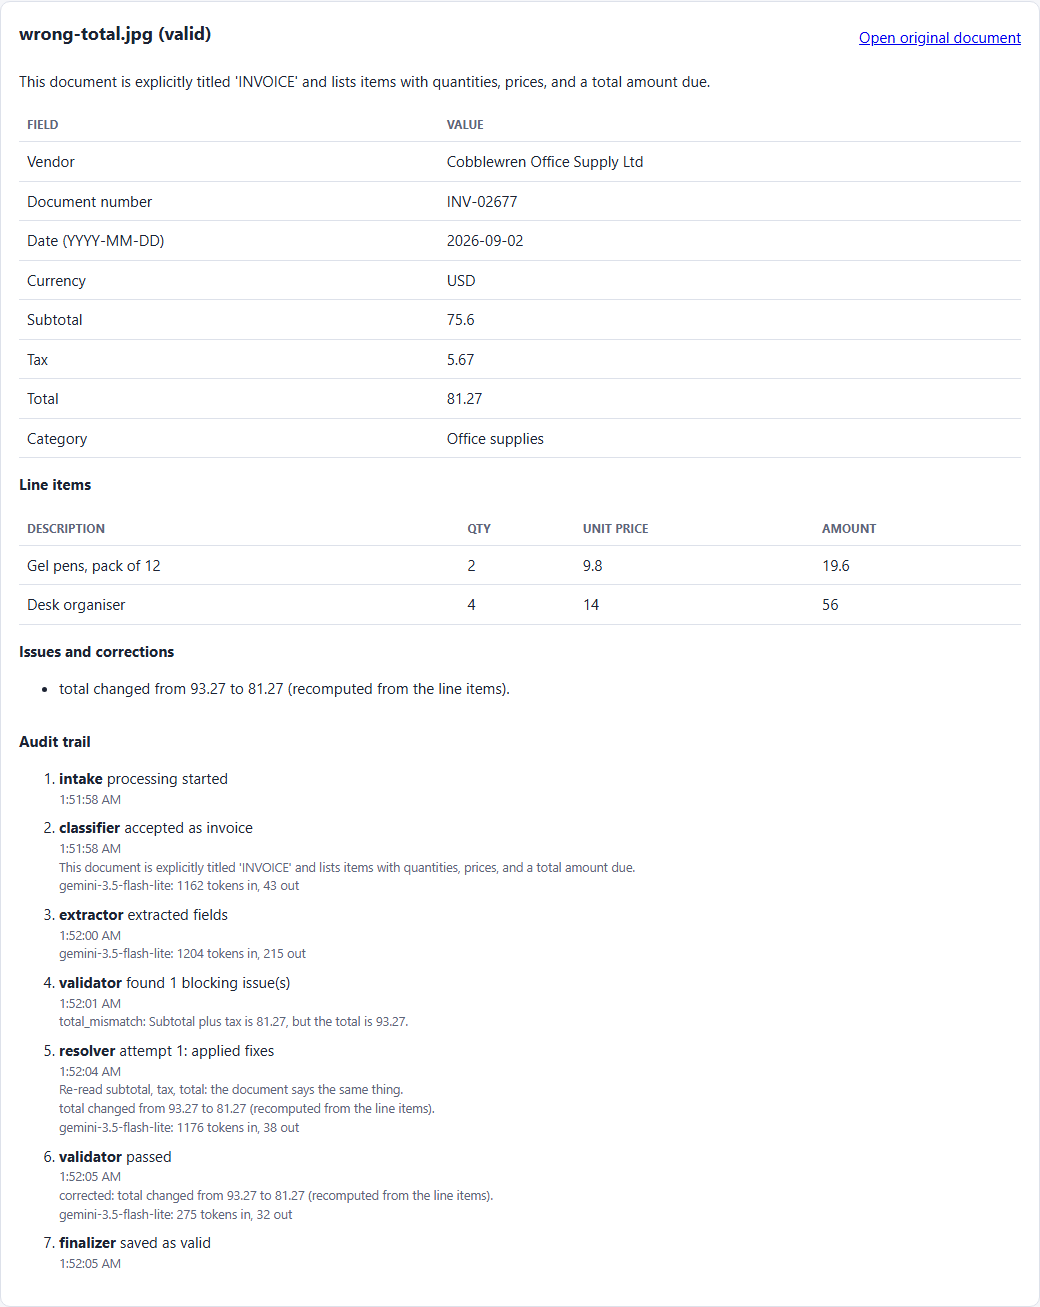
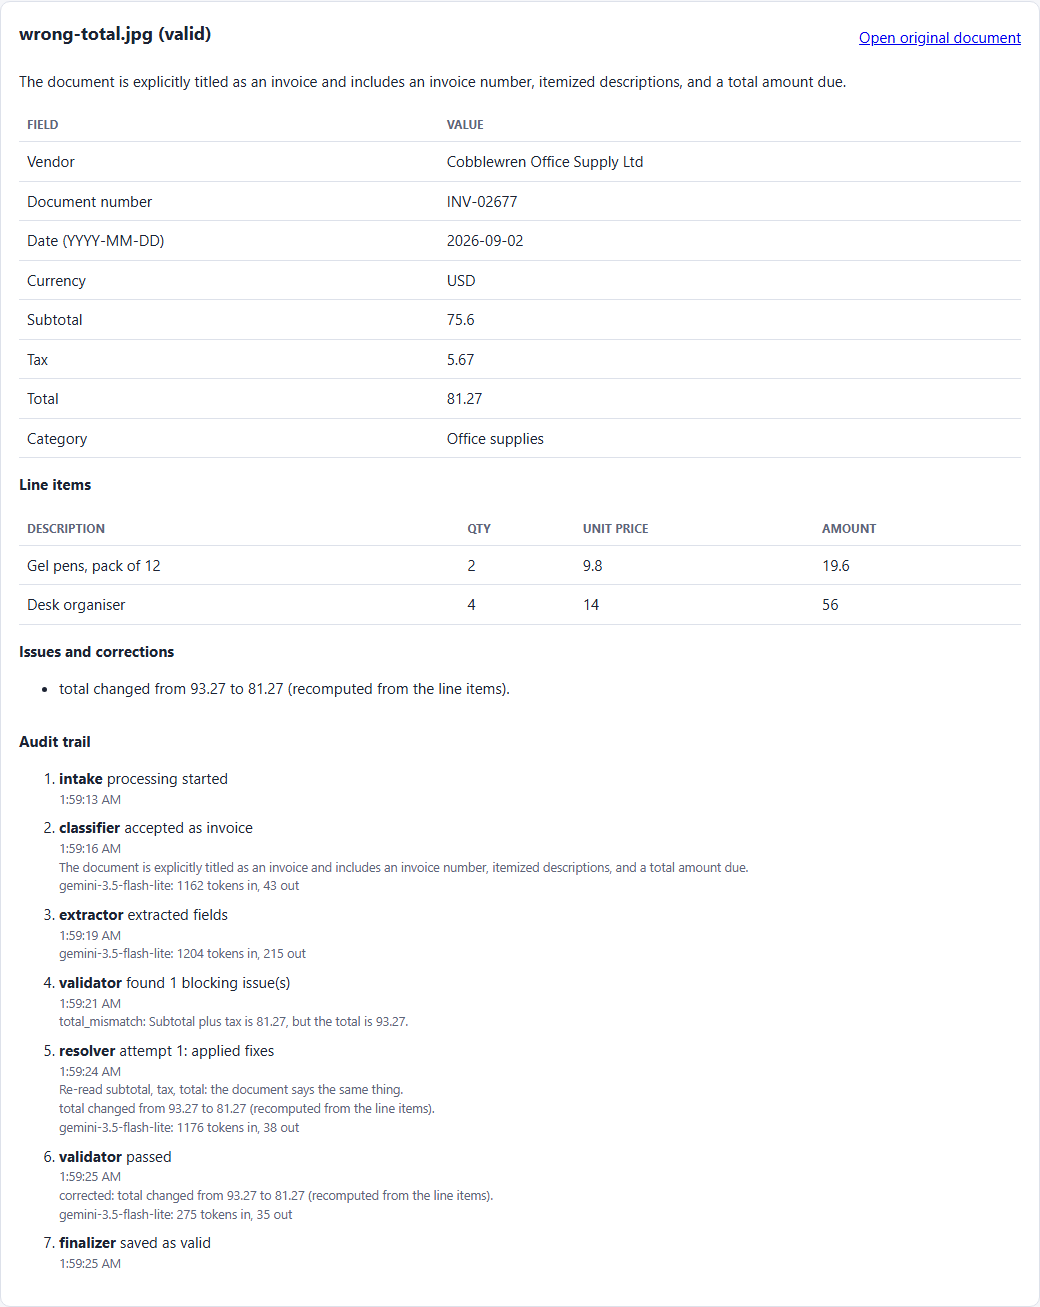
M8: README, burst test record, refreshed screenshots

Changed region(s): [[0.0615, 0.6427, 0.7077, 0.6733], [0.0308, 0.0612, 0.6769, 0.0918], [0.7385, 0.0612, 0.8, 0.0918]]

diff --git a/README.md b/README.md
@@ -1,0 +1,154 @@
+# doc-agents-aws
+
+**Four AI agents on AWS that read invoices and receipts, check them, fix what can be fixed, and hand the rest to a person with a plain-English explanation. Serverless, deployed with Terraform, measured agent by agent.**
+
+**Live demo: <https://dqzyienf3t29b.cloudfront.net>**: click a fictional sample and watch it move through the agents. Demo only: don't upload real invoices.
+
+Project 2 of my AI portfolio. Project 1: [rag-on-aws](https://github.com/usmanibrahim17/rag-on-aws), whose provider interface, queue pacing, deploy guard and OIDC setup are reused here.
+
+![Results table, review queue and sample buttons](docs/img/demo-results.png)
+
+| Human review | Audit trail |
+|---|---|
+| ![A document waiting for review, with the explanation and editable fields](docs/img/demo-review.png) | ![Every agent decision for one document](docs/img/demo-audit.png) |
+
+## What it does
+
+| Agent | Job |
+|---|---|
+| **Classifier** | Invoice, receipt, credit note, or not a financial document. Junk is rejected with a reason |
+| **Extractor** | Reads PDF or photo into a fixed JSON schema: vendor, number, date, currency, line items, subtotal, tax, total, expense category |
+| **Validator** | Rules first (arithmetic, tax rate, required fields, duplicates, known vendor), then an AI anomaly check on documents that pass |
+| **Resolver** | Re-reads the problem fields, fuzzy-matches misspelled vendors, recomputes totals. Fixed documents go back to the Validator (at most 2 loops) |
+
+Whatever remains goes to a person: the workflow pauses, shows what is wrong and what was already tried, and resumes on approve or reject. Every decision is written to an audit log; saved documents export as CSV.
+
+## Architecture
+
+As deployed in `us-east-1`:
+
+```mermaid
+flowchart TB
+  B[Browser] -- HTTPS --> CF["CloudFront + OAC<br/>private S3 site"]
+  B -- "X-Session-Id" --> G["API Gateway HTTP API<br/>throttled, strict CORS"]
+  G --> API[api Lambda]
+  B -- "presigned POST" --> U[("S3 uploads<br/>private, deleted after 7 days")]
+  U -- "object created" --> Q["SQS intake<br/>+ dead-letter queue"]
+  Q --> ST["starter Lambda<br/>3 documents at a time"]
+  ST -- StartExecution --> C
+
+  subgraph SFN ["Step Functions (Standard)"]
+    C[Classifier] -->|financial| E[Extractor]
+    C -->|junk| X([rejected])
+    E --> V[Validator]
+    V -->|valid| F[finalizer]
+    V -->|issues| R[Resolver]
+    R -->|"changed, max 2 loops"| V
+    R -->|"nothing to change"| H["reviewer<br/>waitForTaskToken"]
+    V -->|"still invalid after 2"| H
+    H -->|approve / reject| F
+  end
+
+  API -- "SendTaskSuccess" --> H
+  API <--> D[("DynamoDB<br/>documents, audit,<br/>reviews, vendors")]
+  SFN <--> D
+  SFN -- "document + JSON schema" --> P{{"AI provider<br/>Gemini (Bedrock by one setting)"}}
+  K["SSM SecureString<br/>Gemini key"] -.-> SFN
+  GH["GitHub Actions<br/>OIDC, main only"] -- "plan, guard, apply" --> TF["this whole stack<br/>(Terraform, remote state in S3)"]
+```
+
+Each box in the workflow is its own Lambda with its own IAM role. Agent Lambdas raise `RateLimited` on HTTP 429 and the state machine retries with exponential backoff and jitter.
+
+## Key decisions
+
+| Decision | Why |
+|---|---|
+| **Rules before AI** in the Validator | Arithmetic, tax and duplicates are exact, free and explainable; the model only judges what rules cannot, and only on documents that passed them |
+| **Step Functions Standard** with `waitForTaskToken` | A document can wait days for a person with nothing running |
+| Resolver **only fixes what evidence supports** | A total is recomputed only when every line is internally consistent; the old value stays in the audit log |
+| Loop ends when **nothing changed** (or after 2 loops) | No repeated model calls that cannot help |
+| **SQS + a starter Lambda** in front of the workflow | A burst of uploads waits in line (`ChangeMessageVisibility` backoff) instead of hitting the free-tier limit together |
+| **Pluggable provider** (`gemini` or `bedrock`) | Bedrock on-demand quota is 0 on this account. The Bedrock path is tested with stubs only |
+| Plain Python + `boto3`; PDFs and images go to the model as they are | No frameworks, OCR service or PDF library; one small zip |
+| **Anonymous session per browser** | A public demo with no sign-up where visitors cannot see each other's documents |
+
+## Evaluation
+
+33 synthetic documents (30 financial, 11 images, 3 non-financial) for fictional companies, with deliberate faults: wrong totals, duplicates, missing fields, misspelled vendors, odd tax rates and an unknown vendor. Each is rendered from its ground-truth record. Full report: [`evals/RESULTS.md`](evals/RESULTS.md).
+
+| Agent | Metric | Result |
+|---|---|---|
+| Classifier | Document type accuracy | 100% (33 documents) |
+| Extractor | Field accuracy / line items / category | 100% / 100% / 100% (30 documents) |
+| Validator | Precision / recall | 100% / 100% (14 bad, 16 good) |
+| Resolver | Saved without a human | 42.9% (6 of 14 flagged) |
+| Resolver | Fixable fixed correctly / unfixable sent to a person | 6 of 6 / 8 of 8 |
+| Pipeline | Latency, one document (median of 5, max) | 5.2 s (18.8 s) |
+| Pipeline | Latency when 31 arrive at once (p50 / p95) | 73 s / 228 s, mostly queueing |
+
+**How to read this.** The 100% scores mean the pipeline handles this set, not that it is error-free. The documents are machine-rendered and clearly printed (scans add only slight rotation, noise and blur), the set is small, and the same author wrote the data, the rules and the pipeline. Expect lower scores on creased photos, handwriting and unusual layouts. The auto-fix rate is low by design: 8 of the 14 faults (duplicates, missing data, odd tax, unknown vendor) *should* reach a person.
+
+A [burst test](evals/LOAD_TEST.md) of 20 simultaneous uploads finished all 20 in 366 s with nothing lost or dead-lettered.
+
+## Cost per 1,000 documents
+
+Measured in the eval run: 1,971 input and 297 output tokens, 8.8 state transitions and 3.63 Lambda GB-seconds per document.
+
+| Option | Models | AWS | **Total per 1,000 documents** |
+|---|---|---|---|
+| Gemini free tier (demo and public data only) | $0.00 | $0.32 | **$0.32** |
+| Gemini paid (`gemini-3.5-flash-lite`) | $1.33 | $0.32 | **$1.65** |
+| Amazon Bedrock Nova Lite (estimate, not run) | $0.19 | $0.32 | **$0.51** |
+
+AWS share: Step Functions $0.22, Lambda $0.06, DynamoDB $0.02, S3 + SQS $0.01, API Gateway $0.01. List prices without free-tier allowances; DynamoDB, S3, SQS and API request counts per document are assumptions; logs, CloudFront, transfer and storage are excluded. Prices and sources are in [`evals/cost.py`](evals/cost.py). Nothing runs all the time: when idle, the charges are storage and the queue polling.
+
+## Security
+
+- **Least-privilege IAM:** one role per Lambda, scoped to specific tables, prefixes, queue, state machine and the one SSM parameter. One exception: Step Functions task callbacks have no resource-level permissions, so the API role has `states:SendTaskSuccess` on `*`; the task token is what authorizes a resume.
+- **Permissions boundary** on every stack role. The CD role may only create or change `docagent-*` roles that carry it, and cannot edit the boundary or itself. It can manage any CloudFront distribution and HTTP API in the account, because their IDs are random.
+- **Visitor isolation:** every upload, list, detail, audit, review and export is scoped to an anonymous session id; another session's document returns 404. Task tokens stay server-side. The session id is a bearer secret, not a login.
+- **Private storage:** uploads and site buckets block public access and are encrypted; the site is served only through CloudFront (OAC) with CSP, HSTS and frame headers. CORS allows the site's origin only.
+- **Retention:** uploads are deleted after 7 days; documents, reviews and audit records expire through DynamoDB TTL.
+- **Abuse limits:** API throttling (5 requests/s, burst 20), 5 MB PDF/PNG/JPEG only, daily upload caps. A determined visitor could still use up the day's shared cap.
+- **Untrusted content:** prompts treat document text as data; output must match a schema; the page renders it as text only; CSV export neutralizes spreadsheet formulas.
+- **No secrets** in code, Terraform variables, state or logs. The Gemini key is read from SSM at runtime. CI uses GitHub OIDC with this repository's immutable subject claim: no stored AWS keys.
+- **Deploy guard:** CD refuses any plan that deletes or replaces resources unless the commit message contains `[allow-destroy]`.
+- **Data privacy:** Google may use free-tier inputs to improve its products. For client documents use a paid Gemini key or Bedrock.
+
+## Problems solved
+
+1. **Paused reviews would have blocked the queue.** An execution waiting for a person still counts as running, so the starter subtracts pending reviews before deciding whether there is a free slot.
+2. **Auto-fixing money is risky.** The Resolver first re-reads the document, and recomputes only when the line items prove which figure is wrong.
+3. **Duplicates in a public demo.** The duplicate key includes the session, so two visitors trying the same sample do not flag each other.
+4. **Rate limits without paying to wait.** Instead of sleeping in a Lambda, agents fail fast on 429 and Step Functions backs off.
+5. **A circular dependency** between the site's security policy (needs the API address) and the API's CORS (needs the site address), broken by allowing the API Gateway domain pattern in the policy.
+6. **The first automated deploy failed** because Windows PowerShell stripped the quotes from a list-valued CI secret; setting it through standard input fixed it.
+
+## Deploy your own
+
+Needs an AWS account (`us-east-1`), Terraform 1.10+, Python 3.12 and a [Gemini API key](https://aistudio.google.com/apikey).
+
+1. Store the key (never in code or tfvars): `aws ssm put-parameter --name /rag-demo/gemini-api-key --type SecureString --value <key>`
+2. The bootstrap expects a private, versioned S3 **state bucket** and the account's **GitHub OIDC provider**. [rag-on-aws](https://github.com/usmanibrahim17/rag-on-aws)'s bootstrap creates both; otherwise create them once yourself.
+3. `cd infra/bootstrap && terraform init && terraform apply -var state_bucket_name=<bucket> -var github_sub_prefix=<prefix>` (read the prefix with `gh api repos/<owner>/<repo>/actions/oidc/customization/sub --jq .sub_claim_prefix`).
+4. In `infra/envs/demo`, copy `terraform.tfvars.example` and `backend.hcl.example` without the `.example` suffix and fill them in.
+5. From the repository root: `python scripts/build_zip.py`, then `cd infra/envs/demo && terraform init "-backend-config=backend.hcl" && terraform apply`
+6. Open `terraform output web_url`.
+7. Continuous deployment: set repository variables `AWS_DEPLOY_ROLE_ARN`, `AWS_REGION`, `TF_STATE_BUCKET` and the secret `BUDGET_ALERT_EMAILS` (a list such as `["you@example.com"]`).
+8. Measure it: `pip install -r requirements-dev.txt`, then `python evals/run_evals.py --url <api_url>`. Browser test: `scripts/demo_browser_test.py`.
+
+## Repository layout
+
+```
+app/agents/    classifier, extractor, validator, resolver, reviewer, finalizer
+app/api/       public API          app/starter/   SQS -> Step Functions
+app/common/    providers (Gemini + Bedrock), rules, schemas, audit
+statemachine/  workflow definition
+infra/         bootstrap (deploy role, boundary), modules/docagent_stack, envs/demo
+web/           static demo site and samples (no framework, no build step)
+evals/         dataset, scoring, cost, results
+scripts/       build, dataset generator, load and browser tests
+tests/         unit tests
+```
+
+All companies and documents in this repository are fictional.

diff --git a/CLAUDE.md b/CLAUDE.md
@@ -2,6 +2,8 @@
 
 Project 2 of the AI portfolio. Project 1 is `../rag-on-aws` (https://github.com/usmanibrahim17/rag-on-aws): reuse its patterns and code (providers, SQS backoff, Terraform layout, bootstrap/OIDC/boundary, CI deploy guard, evals runner, cost script, browser test).
 
+STATUS: M1-M8 complete. Live: https://dqzyienf3t29b.cloudfront.net (CD from main). Evals: `evals/RESULTS.md`.
+
 Four-agent document pipeline on AWS: invoices/receipts (PDF or photo) go in; Classifier -> Extractor -> Validator -> Resolver (loop, max 2) -> save, or human review. Orchestrated by Step Functions, one Lambda per agent.
 
 ## Working rules

diff --git a/evals/LOAD_TEST.md b/evals/LOAD_TEST.md
@@ -1,0 +1,10 @@
+# Burst test
+
+`python scripts/load_test.py --url <api_url> --count 20`, run on 2026-11-26 against the deployed
+stack (Gemini free tier, 3 documents processed at a time).
+
+| Uploaded at once | Finished | Valid | Sent to review | Failed | In dead-letter queue | Time for all |
+|---|---|---|---|---|---|---|
+| 20 | 20 | 20 | 0 | 0 | 0 | 366 s |
+
+Also checked in the same run: the CSV export had 20 rows, and a second session saw 0 documents.
